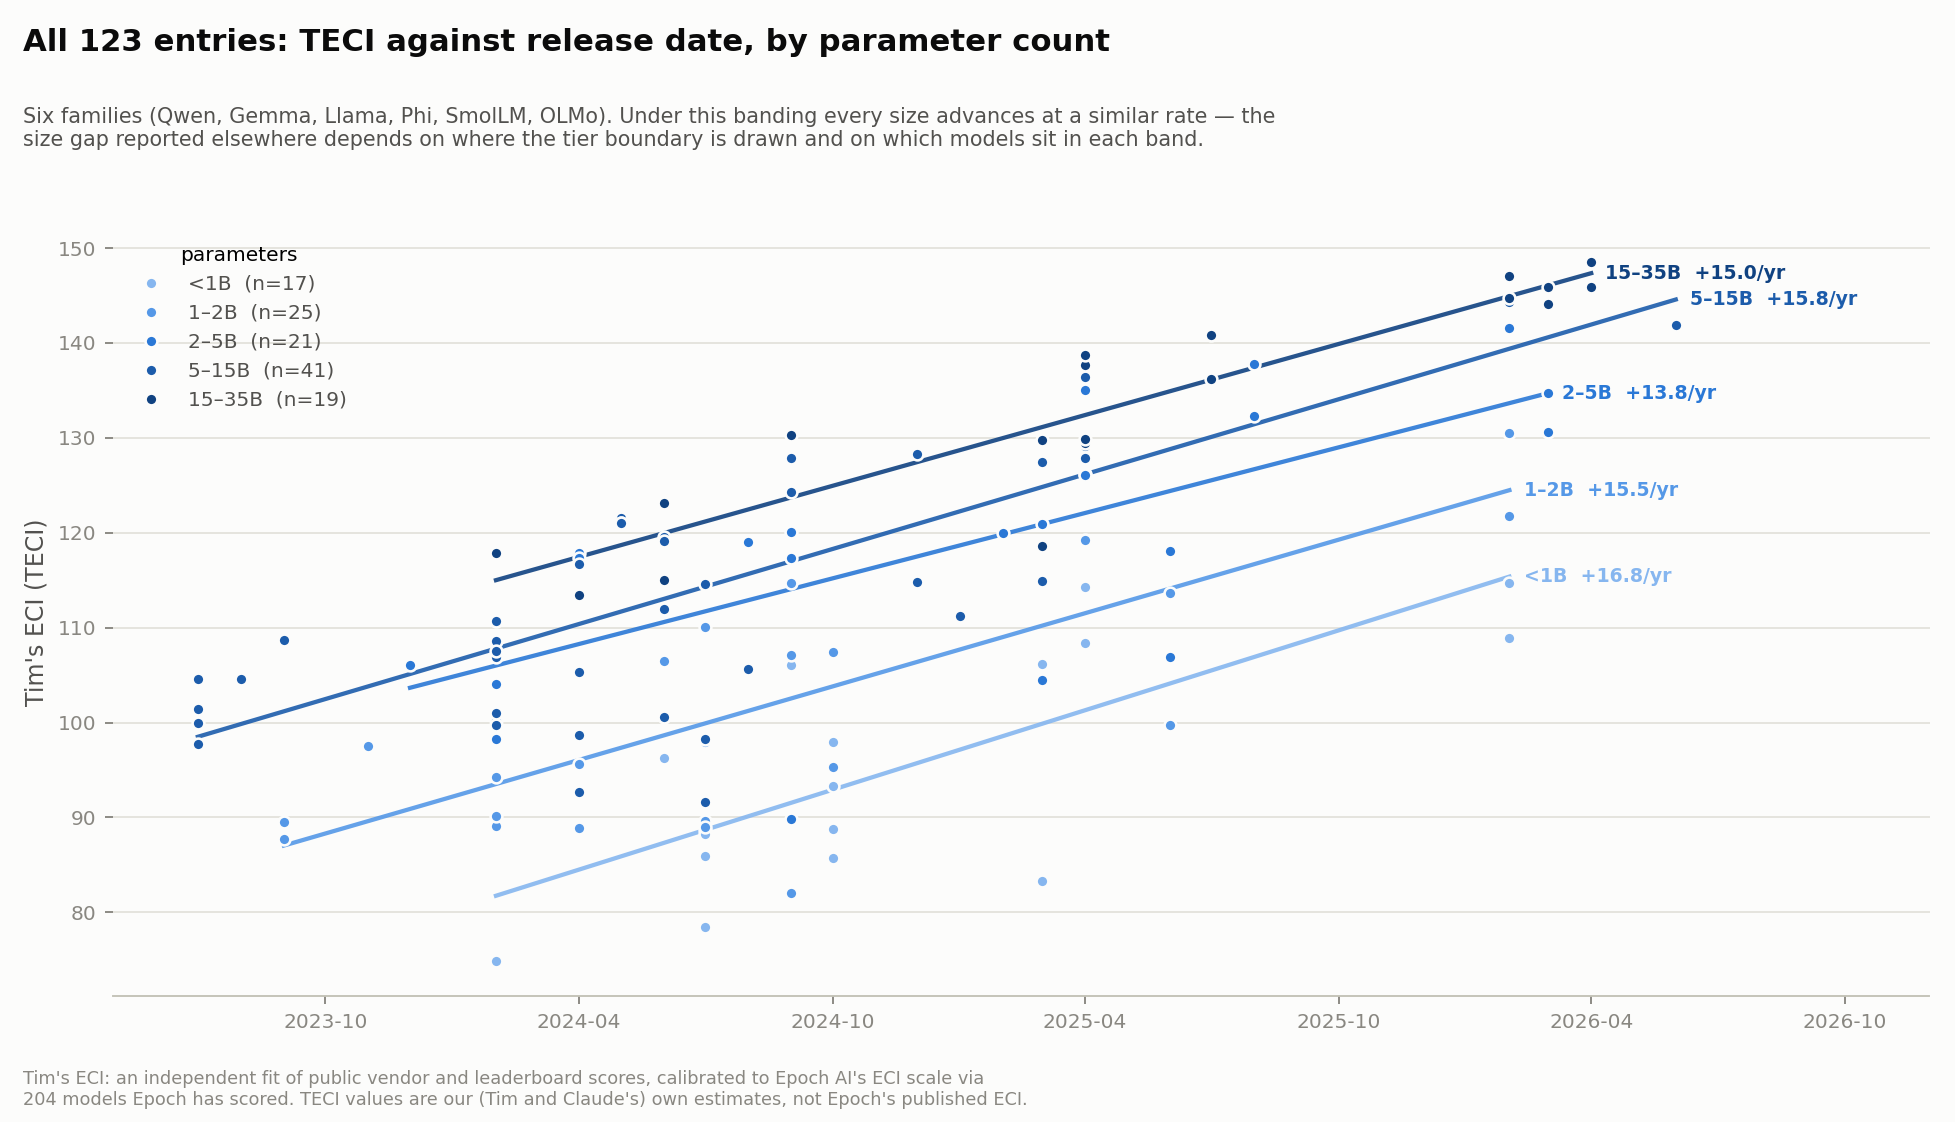
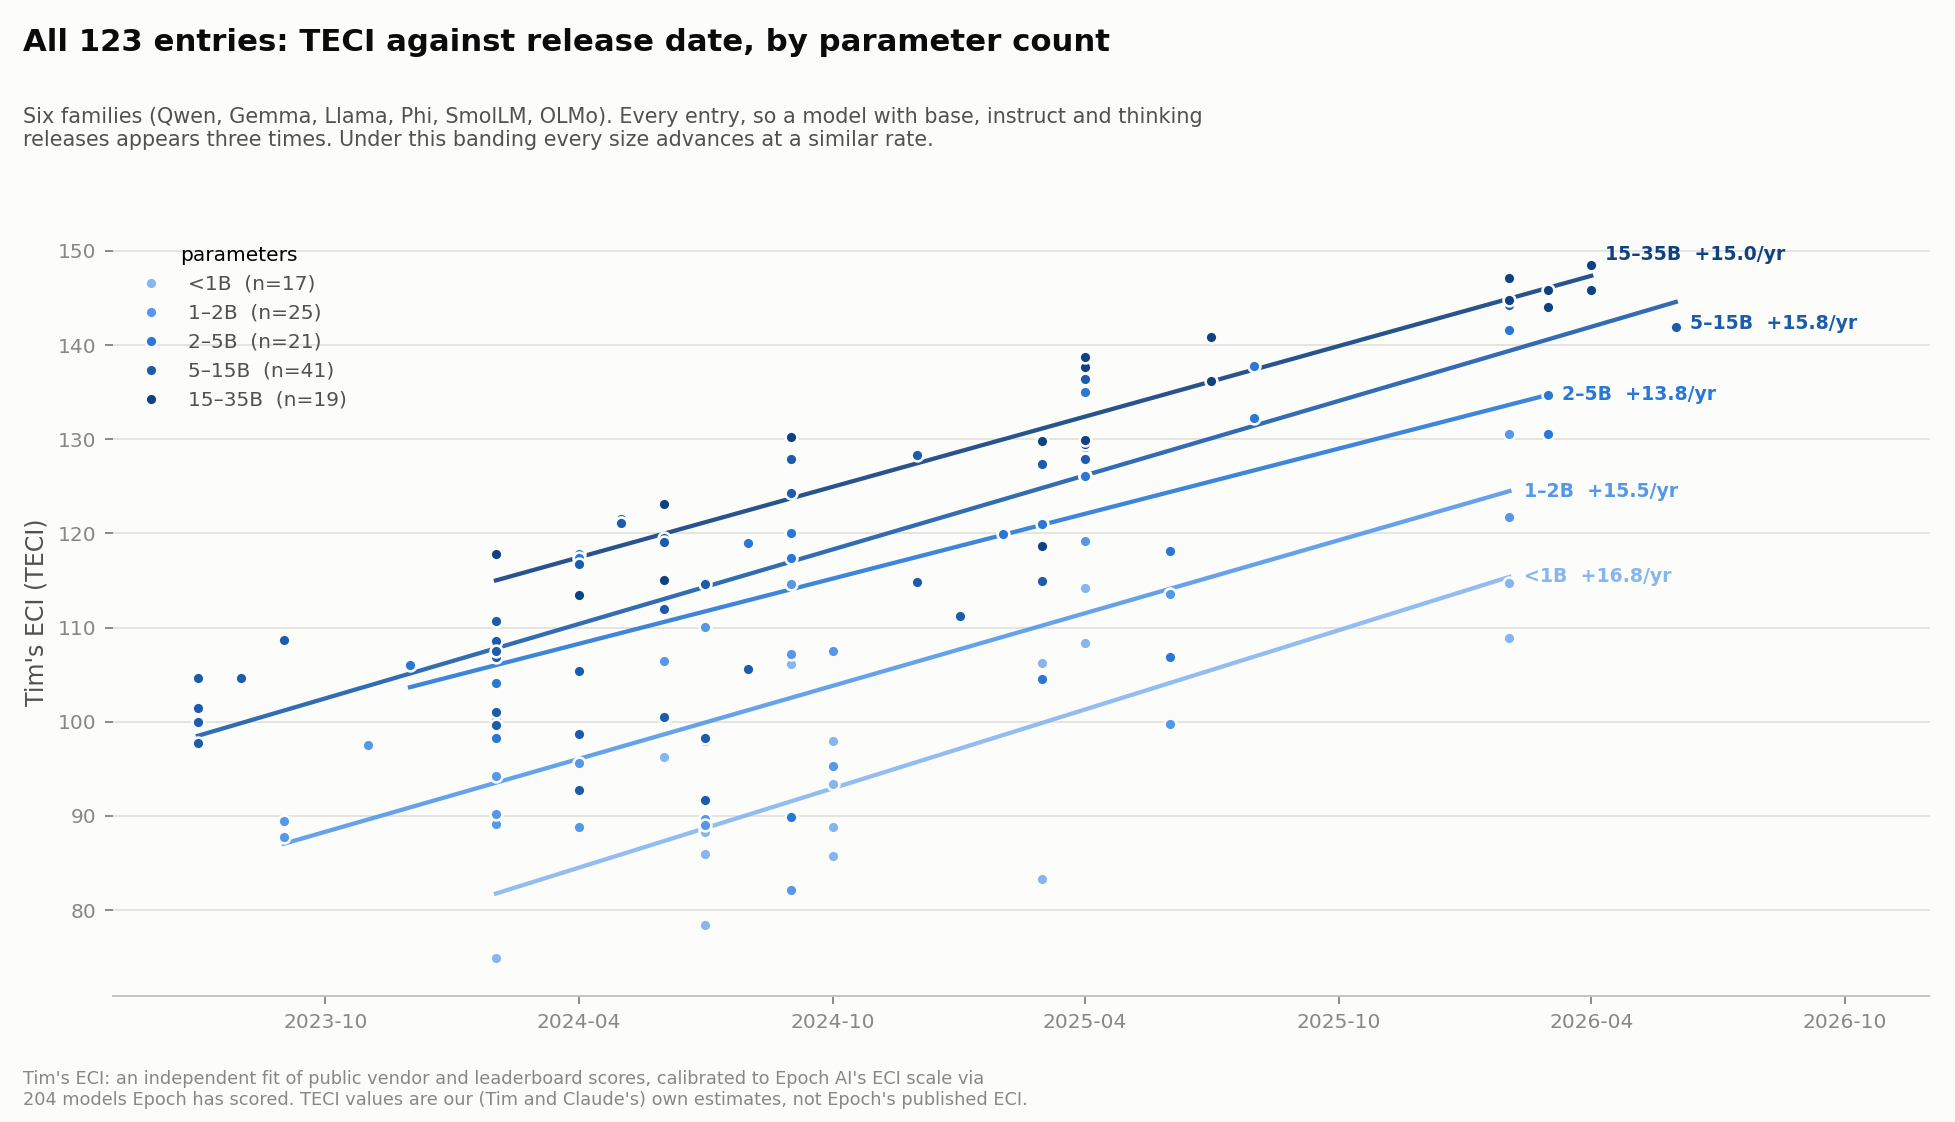
Add a one-entry-per-model version of the all-models chart
Applies the sub-2B chart's rules to the full set: thinking over non-thinking,
instruct over base. 123 entries become 87. The filter is factored out as
one_per_model() and now drives both charts.

Kept as a second chart rather than replacing the first, because the two
disagree in a way worth seeing:

  band      all entries   one per model
  <1B         +16.8          +20.3
  1-2B        +15.5          +18.7
  2-5B        +13.8          +13.3
  5-15B       +15.8          +16.0
  15-35B      +15.0          +12.6

Counting every entry, no band stands out. Counting one per model, the two
smallest bands become the fastest and 15-35B the slowest -- the opposite of
the pooled-tier result this project started from. Both filters are defensible,
which is the point: the rate comparison is far more sensitive to which entries
are counted than to anything in the fit.

That is now three different orderings from three defensible choices (pooled
tiers, fine bands, fine bands deduplicated), and it argues against any
confident headline claim about relative rates.

diff --git a/scripts/mk_chart_families.py b/scripts/mk_chart_families.py
@@ -15,6 +15,12 @@
                           in five bands. Finer banding than the tiers used
                           elsewhere, deliberately: the slopes come out near
                           parallel, which is the point.
+(3b) eci_all_models_one_per_model.png — the same chart with one entry per model
+                          (thinking over non-thinking, instruct over base), 87
+                          of 123. Kept alongside rather than replacing (3): the
+                          filter is defensible but it reverses the band ordering,
+                          and the pair is the honest way to show how much the
+                          rate comparison depends on which entries you count.
 (4) eci_small_models.png — the <=2B tier alone, every entry named, against
                           release date. No trend line. One entry per model,
                           preferring what a user would reach for: thinking over
@@ -59,6 +65,29 @@ TIERS = list(TIER_C)
 # A slope needs enough spread in time to mean anything. SmolLM spans four
 # months; fitting a per-year rate to that would be noise dressed as a finding.
 MIN_N, MIN_SPAN_YRS = 4, 1.0
+
+
+def one_per_model(df):
+    """Keep the entry a user would reach for: thinking over non-thinking,
+    instruct over base. Our entry convention deliberately splits those, which is
+    right for fitting but double-counts a model when you plot or fit a trend.
+
+    Instruct/base pairs are matched by name prefix, an instruct release being the
+    base name plus a suffix (" IT", "-Chat", "-Instruct"). Models with no
+    instruct release (phi-1, phi-1_5, OLMo-1B-hf) are kept as they are.
+    """
+    df = df.copy()
+    df["model"] = df.entry.str.partition(" [")[0]
+    v = df.entry.str.partition(" [")[2].str.rstrip("]")
+    think = v.str.contains("Thinking") & ~v.str.contains("Non-thinking")
+    nonthink = v.str.contains("Non-thinking")
+    df = df[~(nonthink & df.model.isin(set(df[think].model)))]
+
+    v = df.entry.str.partition(" [")[2].str.rstrip("]")
+    base = v.str.startswith("Pretrained") | v.str.startswith("Base (")
+    inst = list(df[v.str.startswith("Instruct")].model)
+    paired = {m for m in df[base].model if any(i != m and i.startswith(m) for i in inst)}
+    return df[~(base & df.model.isin(paired))]
 
 r = pd.read_csv("results_methods.csv")
 r["date"] = pd.to_datetime(r.release.astype(str), format="%Y-%m", errors="coerce")
@@ -187,45 +216,66 @@ BANDS = ["<1B", "1–2B", "2–5B", "5–15B", "15–35B"]
 BAND_C = dict(zip(BANDS, ["#86b6ef", "#5598e7", "#2a78d6", "#1c5cab", "#104281"]))
 r["band"] = pd.cut(r.params_B, [0, 1, 2.1, 5, 15, 40], labels=BANDS)
 
-fig3, ax = plt.subplots(figsize=(11.5, 6.6), facecolor=SURF)
-ax.set_facecolor(SURF)
-for b in BANDS:
-    s = r[r.band == b]
-    if not len(s):
-        continue
-    ax.plot(s.date, s.eci_A, "o", ms=5, color=BAND_C[b], markeredgecolor=SURF,
-            markeredgewidth=1.1, linestyle="none", zorder=3, label=f"{b}  (n={len(s)})")
-    span = s.yrs.max() - s.yrs.min()
-    if len(s) >= MIN_N and span >= MIN_SPAN_YRS:
-        m, c = np.polyfit(s.yrs, s.eci_A, 1)
-        xs = np.array([s.yrs.min(), s.yrs.max()])
-        ax.plot(pd.Timestamp("2023-01-01") + pd.to_timedelta(xs * 365.25, "D"),
-                c + m * xs, color=BAND_C[b], lw=1.8, zorder=2, alpha=.9)
-        ax.annotate(f"{b}  {m:+.1f}/yr", xy=(s.date.max(), c + m * xs[1]),
-                    xytext=(6, 0), textcoords="offset points", fontsize=8,
-                    color=BAND_C[b], va="center", fontweight="bold", zorder=4)
-ax.set_ylabel(TECI_AXIS, color=INK2, fontsize=10)
-ax.grid(axis="y", color=GRID, lw=0.7)
-ax.set_axisbelow(True)
-ax.tick_params(colors=MUTED, labelsize=8.5)
-for s_ in ("top", "right", "left"):
-    ax.spines[s_].set_visible(False)
-ax.spines["bottom"].set_color(AXIS)
-ax.xaxis.set_major_locator(mdates.MonthLocator(interval=6))
-ax.xaxis.set_major_formatter(mdates.DateFormatter("%Y-%m"))
-ax.set_xlim(pd.Timestamp("2023-05-01"), pd.Timestamp("2026-12-01"))
-ax.legend(loc="upper left", fontsize=8.5, frameon=False, labelcolor=INK2,
-          title="parameters", title_fontsize=8.5)
-fig3.suptitle(f"All {len(r)} entries: TECI against release date, by parameter count",
-              color=INK, fontsize=13, x=0.012, ha="left", fontweight="bold", y=0.975)
-fig3.text(0.012, 0.905,
-          "Six families (Qwen, Gemma, Llama, Phi, SmolLM, OLMo). Under this banding every size "
-          "advances at a similar rate — the\nsize gap reported elsewhere depends on where the tier "
-          "boundary is drawn and on which models sit in each band.",
-          color=INK2, fontsize=8.8, va="top")
-fig3.text(0.012, 0.012, TECI_NOTE, color=MUTED, fontsize=7.5, va="bottom")
-fig3.tight_layout(rect=(0, 0.055, 1, 0.87))
-fig3.savefig("eci_all_models.png", dpi=170, facecolor=SURF)
+
+def all_models_chart(data, fname, headline, note):
+    fig3, ax = plt.subplots(figsize=(11.5, 6.6), facecolor=SURF)
+    ax.set_facecolor(SURF)
+    for b in BANDS:
+        s = data[data.band == b]
+        if not len(s):
+            continue
+        ax.plot(s.date, s.eci_A, "o", ms=5, color=BAND_C[b], markeredgecolor=SURF,
+                markeredgewidth=1.1, linestyle="none", zorder=3, label=f"{b}  (n={len(s)})")
+        span = s.yrs.max() - s.yrs.min()
+        if len(s) >= MIN_N and span >= MIN_SPAN_YRS:
+            m, c = np.polyfit(s.yrs, s.eci_A, 1)
+            xs = np.array([s.yrs.min(), s.yrs.max()])
+            ax.plot(pd.Timestamp("2023-01-01") + pd.to_timedelta(xs * 365.25, "D"),
+                    c + m * xs, color=BAND_C[b], lw=1.8, zorder=2, alpha=.9)
+            # the two largest bands finish close together and their labels
+            # overlap; nudge them apart vertically
+            ax.annotate(f"{b}  {m:+.1f}/yr", xy=(s.date.max(), c + m * xs[1]),
+                        xytext=(6, {"5–15B": -9, "15–35B": 9}.get(b, 0)),
+                        textcoords="offset points", fontsize=8,
+                        color=BAND_C[b], va="center", fontweight="bold", zorder=4)
+    ax.set_ylabel(TECI_AXIS, color=INK2, fontsize=10)
+    ax.grid(axis="y", color=GRID, lw=0.7)
+    ax.set_axisbelow(True)
+    ax.tick_params(colors=MUTED, labelsize=8.5)
+    for s_ in ("top", "right", "left"):
+        ax.spines[s_].set_visible(False)
+    ax.spines["bottom"].set_color(AXIS)
+    ax.xaxis.set_major_locator(mdates.MonthLocator(interval=6))
+    ax.xaxis.set_major_formatter(mdates.DateFormatter("%Y-%m"))
+    ax.set_xlim(pd.Timestamp("2023-05-01"), pd.Timestamp("2026-12-01"))
+    ax.set_ylim(r.eci_A.min() - 4, r.eci_A.max() + 4)
+    ax.legend(loc="upper left", fontsize=8.5, frameon=False, labelcolor=INK2,
+              title="parameters", title_fontsize=8.5)
+    fig3.suptitle(headline, color=INK, fontsize=13, x=0.012, ha="left",
+                  fontweight="bold", y=0.975)
+    fig3.text(0.012, 0.905, note, color=INK2, fontsize=8.8, va="top")
+    fig3.text(0.012, 0.012, TECI_NOTE, color=MUTED, fontsize=7.5, va="bottom")
+    fig3.tight_layout(rect=(0, 0.055, 1, 0.87))
+    fig3.savefig(fname, dpi=170, facecolor=SURF)
+
+
+all_models_chart(
+    r, "eci_all_models.png",
+    f"All {len(r)} entries: TECI against release date, by parameter count",
+    "Six families (Qwen, Gemma, Llama, Phi, SmolLM, OLMo). Every entry, so a model with base, "
+    "instruct and thinking\nreleases appears three times. Under this banding every size advances "
+    "at a similar rate.")
+
+# Same chart, one entry per model. Worth having both: the filter is defensible
+# but it moves the slopes a lot, and the two side by side are the honest way to
+# show how much the rate comparison depends on which entries you count.
+rd = one_per_model(r)
+all_models_chart(
+    rd, "eci_all_models_one_per_model.png",
+    f"One entry per model ({len(rd)} of {len(r)} entries): TECI against release date",
+    "Thinking preferred over non-thinking, instruct over base. Removing the duplicates reverses "
+    "the ordering:\nthe two smallest bands become the fastest and 15–35B the slowest — compare "
+    "eci_all_models.png.")
 
 # ---------------------------------------------------------------- chart 4
 # The <=2B tier alone, every entry named. No trend line: with 42 points across
@@ -262,27 +312,9 @@ def stack(vals, gap):
 sm = r[r.params_B <= 2.1].copy()
 sm["band"] = pd.cut(sm.params_B, [0, 0.5, 1.0, 2.1], labels=SMALL_BANDS)
 
-# One entry per model, preferring what a user would actually reach for: thinking
-# over non-thinking, instruct over base. 42 entries become 26, which is most of
-# what makes this chart legible.
-sm["model"] = sm.entry.str.partition(" [")[0]
-variant = sm.entry.str.partition(" [")[2].str.rstrip("]")
-
-# thinking beats non-thinking for the same weights (4 models: Qwen3-0.6B/1.7B,
-# Qwen3.5-0.8B/2B). Dropping the suffix this allows is what buys label room.
-is_think = variant.str.contains("Thinking") & ~variant.str.contains("Non-thinking")
-is_nonthink = variant.str.contains("Non-thinking")
-sm = sm[~(is_nonthink & sm.model.isin(set(sm[is_think].model)))]
-
-# instruct beats base. Pair them by name prefix -- the instruct release is the
-# base name plus a suffix (" IT", "-Chat", "-Instruct"), so 12 pairs match.
-# phi-1, phi-1_5 and OLMo-1B-hf have no instruct release and stay as they are.
-variant = sm.entry.str.partition(" [")[2].str.rstrip("]")
-is_base = variant.str.startswith("Pretrained") | variant.str.startswith("Base (")
-inst_models = list(sm[variant.str.startswith("Instruct")].model)
-paired = {m for m in sm[is_base].model
-          if any(i != m and i.startswith(m) for i in inst_models)}
-sm = sm[~(is_base & sm.model.isin(paired))]
+# One entry per model: 42 rows become 26, which is most of what makes the labels
+# fit. See one_per_model() for the rule.
+sm = one_per_model(sm)
 
 # Back on a date axis, at a larger canvas. Labels sit beside their point,
 # de-collided vertically within each release month, and the side alternates
